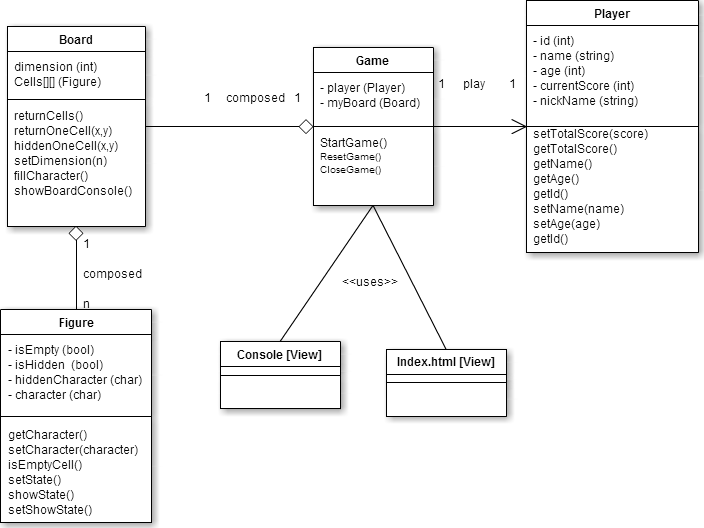
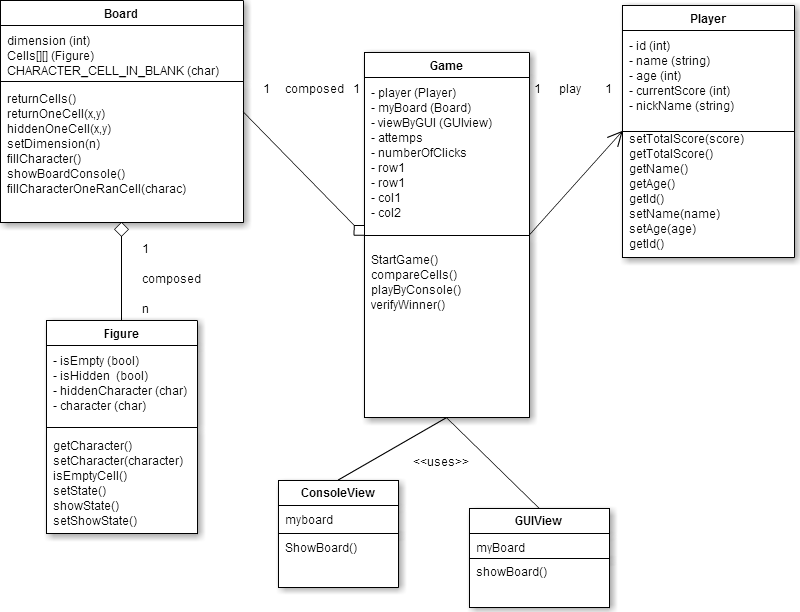
Typo message and GUI code review

diff --git a/js/game.js b/js/game.js
@@ -14,9 +14,9 @@ var Game = function()
 {
     this.player = new Player();
     this.myBoard = new Board();
-    //this.viewByConsole = new ConsoleView();
+    this.viewByConsole = null;
     this.viewByGUI = new GUIView();
-    this.attemps = 0;
+    this.numberOfPairs = 0;
     this.numberOfClicks = 0;
     this.row1 = 0;
     this.row2 = 0;
@@ -26,23 +26,9 @@ var Game = function()
     this.figure2 = new Figure();
     this.fails = 0;
     this.wins = 0;
+    this.gameType='GUI';
 };
-/*
- * @method showBoardConsole : Shows the game board on the console
- */
-Board.prototype.showBoardConsole = function()
-{
 
-    this.viewByConsole.ShowBoard();
-};
-/*
- * @method showBoardGUI : Shows the game board GUI.
- */
-Board.prototype.showBoardGUI = function()
-{
-
-    this.viewByGUI.ShowBoard();
-};
 /*
 * @method startGame : Creates a new game
 */
@@ -54,48 +40,51 @@ Game.prototype.startGame = function()
     playGame.dimension = parseInt(playGame.viewByGUI.readBoardDimension());
     playGame.myBoard.setDimension(playGame.dimension);
     playGame.myBoard.fillCharacter();
-//Setting the at
-    playGame.attemps = Math.floor( (playGame.myBoard.dimension*playGame.myBoard.dimension) / 2 );
+    //Setting the number of pairs
+    playGame.numberOfPairs = Math.floor( (playGame.myBoard.dimension*playGame.myBoard.dimension) / 2 );
     //Game Type
-    var gameType=playGame.viewByGUI.readGameType();
-    if (gameType == 'GUI')
+    this.gameType=playGame.viewByGUI.readGameType();
+    //HTML - GUI - View
+    if (this.gameType == 'GUI')
     {
         playGame.viewByGUI.printMessage('Welcome ' + playGame.player.getName() + ' !')
+        playGame.viewByGUI.showBoard(playGame.myBoard);
+    }
+    else //Console - View
+    {
+        //Open DevTools
+        //var openDevToolEvent=jQuery.Event( 'keydown', { keyCode: 123, which: 123 });
+       // $('body').trigger(openDevToolEvent);
+        alert('Press F12 key');
+        playGame.viewByConsole = new ConsoleView(playGame.myBoard);
+        playGame.viewByGUI.hideSettings();
+        alert('Welcome ' + playGame.player.getName() + ' !');
+        playGame.viewByConsole.showBoard(playGame.myBoard);
+        playGame.playGameByConsole();
     }
 
-
-    playGame.viewByGUI.showBoard(playGame.myBoard);
-
-
-    $('form').find('button').off('click',playGame.startGame);
-    //$('form').css({"display":"none"});
-    $('form').hide();
-    //var button = $
+    playGame.viewByGUI.hideSettings();
 };
 /*
  * @method verifyWinner : Verify if the player has won or lost.
  */
 Game.prototype.verifyWinner = function()
-{
-    if (this.wins === this.attemps)
+{ var msg='';
+    if (this.wins === this.numberOfPairs)
     {
-        this.viewByGUI.printMessage('Congratulations YOU WIN!!!\\\nYour Total Score is:' + this.player.getTotalScore());
-        var restart = function(){location.reload();};
-        var restartButton = $('<button class="StartButton">RESTART</button>');
-        restartButton.on('click',restart);
-        $('body').append(restartButton);
-        //Hide table
+        msg='Congratulations YOU WIN!!!\\\nYour Total Score is:' + this.player.getTotalScore();
+        this.viewByGUI.printMessage(msg);
 
     }
 
     if (this.fails === this.dimension)
     {
-        this.viewByGUI.printMessage('GAME OVER!\\\nYour Total Score is: ' + this.player.getTotalScore());
-        var restart = function(){location.reload();};
-        var restartButton = $('<center><button class="StartButton">RESTART</button></center>');
-        restartButton.on('click',restart);
-        $('body').append(restartButton);
-        $('table').hide();
+        msg='GAME OVER!\\\nYour Total Score is: ' + this.player.getTotalScore();
+        this.viewByGUI.printMessage(msg);
+        if (this.gameType == 'GUI') {
+            this.viewByGUI.hideBoard();
+        }
+
     }
 
 };
@@ -108,11 +97,11 @@ Game.prototype.compareCells = function()
     var char2 = this.figure2.getCharacter();
 
     if (char1 === char2)
-    {//Aciertos
+    {//wins
         this.wins++;
         this.player.setCurrentScore(50);
         this.player.setTotalScore(50);
-        this.viewByGUI.printMessage('Congrats! you win 50 points. You miss ' + (this.attemps - this.wins) + ' pairs');
+        this.viewByGUI.printMessage('Congrats! you win 50 points. You miss ' + (this.numberOfPairs - this.wins) + ' pairs');
 
     }
     else
@@ -122,4 +111,39 @@ Game.prototype.compareCells = function()
 
     }
     this.verifyWinner();
+};
+
+Game.prototype.playGameByConsole=function(){
+
+    while ( this.fails < this.myBoard.dimension && this.wins < this.numberOfPairs)
+    {
+        this.col1 = prompt("1.What column do you choose?", "i.e. 2");
+        this.row1 = prompt("1.What row do you choose?", "i.e. 1");
+
+        if ( (this.col1 !== null) && (this.row1 !== null) )
+        {
+            this.figure1 = this.myBoard.returnOneCell(this.row1, this.col1);
+            // Then ask again for a row and column and show it
+            this.viewByConsole.showBoard();
+
+            this.col2 = prompt("2. What column do you choose?", "i.e. 1");
+            this.row2 = prompt("2. What row do you choose?", "i.e. 1");
+
+            if ( (this.col2 !== null) && (this.row2 !== null) )
+            {
+                this.figure2 = this.myBoard.returnOneCell(this.row2, this.col2);
+                this.viewByConsole.showBoard();
+            }
+            else
+            {
+                alert("You need to choose a row and a column to continue playing, please restart the game");
+                break;
+            }
+            this.compareCells();
+        }
+        else
+        {
+            alert("You need to choose a row and a column to continue playing");
+        }
+    }
 };

diff --git a/js/ConsoleView.js b/js/ConsoleView.js
@@ -1,45 +1,15 @@
 /**
  * Created by SamuelSahonero on 2/23/2016.
  */
-var ConsoleView = function()
+var ConsoleView = function(boardToPlay)
 {
+    this.myBoard=boardToPlay;
 };
 
-ConsoleView.prototype.showBoard = function()
+ConsoleView.prototype.playOnConsole = function()
 {
-    //Setting a new player
-    if (arguments[0].length>0)
-    {
-        this.player.setId(arguments[0]);
-    }
-    else
-    {
-        this.player.setId(1);
-    }
 
-    if (arguments[1].length>0)
-    {
-        this.player.setName(arguments[1]);
-    }
-    else
-    {
-        this.player.setName('Canito');
-    }
-
-    var fails = 0;
-    var wins = 0;
-
-    var dimension = prompt("Enter the dimension of the board", "i.e. 6");
-
-    if (dimension !== null)
-    {
-        this.myBoard.setDimension(dimension);
-        this.myBoard.fillCharacter();
-        this.myBoard.showBoardConsole(); // AL
-
-        var numberOfPairs = (dimension*dimension) / 2;
-
-        while ( fails < dimension && wins < numberOfPairs )
+        while ( playGame.fails < this.myBoard.dimension && playGame.wins < playGame.numberOfPairs)
         {
             var col1 = prompt("What column do you choose?", "i.e. 2");
             var row1 = prompt("What row do you choose?", "i.e. 1");
@@ -48,7 +18,7 @@ ConsoleView.prototype.showBoard = function()
             {
                 var figure1 = this.myBoard.returnOneCell(row1, col1);
                 // Then ask again for a row and column and show it
-                this.myBoard.showBoardConsole();
+                this.showBoard();
 
                 var col2 = prompt("What column do you choose?", "i.e. 1");
                 var row2 = prompt("What row do you choose?", "i.e. 1");
@@ -56,7 +26,7 @@ ConsoleView.prototype.showBoard = function()
                 if ( (col2 !== null) && (row2 !== null) )
                 {
                     var figure2 = this.myBoard.returnOneCell(row2, col2);
-                    this.myBoard.showBoardConsole();
+                    this.showBoard();
                 }//here must be an ELSE!!!!
 
                 if ( (figure1.character) === (figure2.character) )
@@ -72,7 +42,7 @@ ConsoleView.prototype.showBoard = function()
                     this.myBoard.hiddenOneCell(row1, col1);
                     this.myBoard.hiddenOneCell(row2, col2);
                     alert("Sorry! you have to try again");
-                    this.myBoard.showBoardConsole();
+                    this.showBoard();
                     // if they aren't equal hide the cells
                     fails = fails +1;
                 }
@@ -83,33 +53,30 @@ ConsoleView.prototype.showBoard = function()
             }
         }
 
-        if (wins == numberOfPairs)
+        if (wins == playGame.numberOfPairs)
         {
-            alert("Congratulations YOU WIN!!!");
+            this.printMessage("Congratulations YOU WIN!!!");
             alert("Your Total Score is: " + this.player.getTotalScore());
         }
         else
         {
             alert("GAME OVER!");
         }
-    }
-    else
-    {
-        alert("You need to dimension the board to start playing!");
-    }
+
 };
 
-Board.prototype.showBoardConsole = function()
+ConsoleView.prototype.showBoard = function()
 {
+
     console.clear();
 
-    for (var i = 0; i < this.dimension; i++ )
+    for (var i = 0; i < this.myBoard.dimension; i++ )
     {
         var line = '' + i;
         var ishidden, characterObtained;
         var headerLine = '';
 
-        for (var j = 0; j < this.dimension; j++ )
+        for (var j = 0; j < this.myBoard.dimension; j++ )
         {
             if(i === 0)
             {
@@ -122,16 +89,16 @@ Board.prototype.showBoardConsole = function()
                 }
             }
 
-            ishidden = this.cells[i][j].showState();
+            ishidden = this.myBoard.cells[i][j].showState();
 
             if(ishidden)
             {
-                characterObtained = this.cells[i][j].hiddenCharacter;
+                characterObtained = this.myBoard.cells[i][j].hiddenCharacter;
                 line = line + ' | ' + characterObtained;
 
             }else
             {
-                characterObtained = this.cells[i][j].character;
+                characterObtained = this.myBoard.cells[i][j].character;
                 line = line + ' | ' + characterObtained;
             }
         }
@@ -146,4 +113,11 @@ Board.prototype.showBoardConsole = function()
 
         console.log(line);
     }
+};
+/*
+ * @param {arguments} By arguments, the text area show the message in arguments[0]
+ */
+ConsoleView.prototype.printMessage = function(msg)
+{
+   console.log(msg);
 };

diff --git a/js/GUIView.js b/js/GUIView.js
@@ -193,4 +193,20 @@ GUIView.prototype.readGameType=function()
 {
     //Console or GUI??
     $('select')
-    return 'GUI';};
+    return 'Console';
+};
+
+GUIView.prototype.hideSettings=function()
+{
+    $('form').find('button').off('click', playGame.startGame);
+//$('form').css({"display":"none"});
+    $('form').hide();
+    var restart = function(){location.reload();};
+    var restartButton = $('<center><button class="StartButton">RESTART</button></center>');
+    restartButton.on('click',restart);
+    $('body').append(restartButton);
+
+
+};
+GUIView.prototype.hideBoard=function()
+{$('table').hide();}

diff --git a/index.html b/index.html
@@ -119,5 +119,6 @@
 <script src="js/player.js"></script>
 <script src="js/game.js"></script>
 <script src="js/GUIView.js"></script>
+<script src="js/ConsoleView.js"></script>
 <script src="js/main.js"></script>
 </html>
